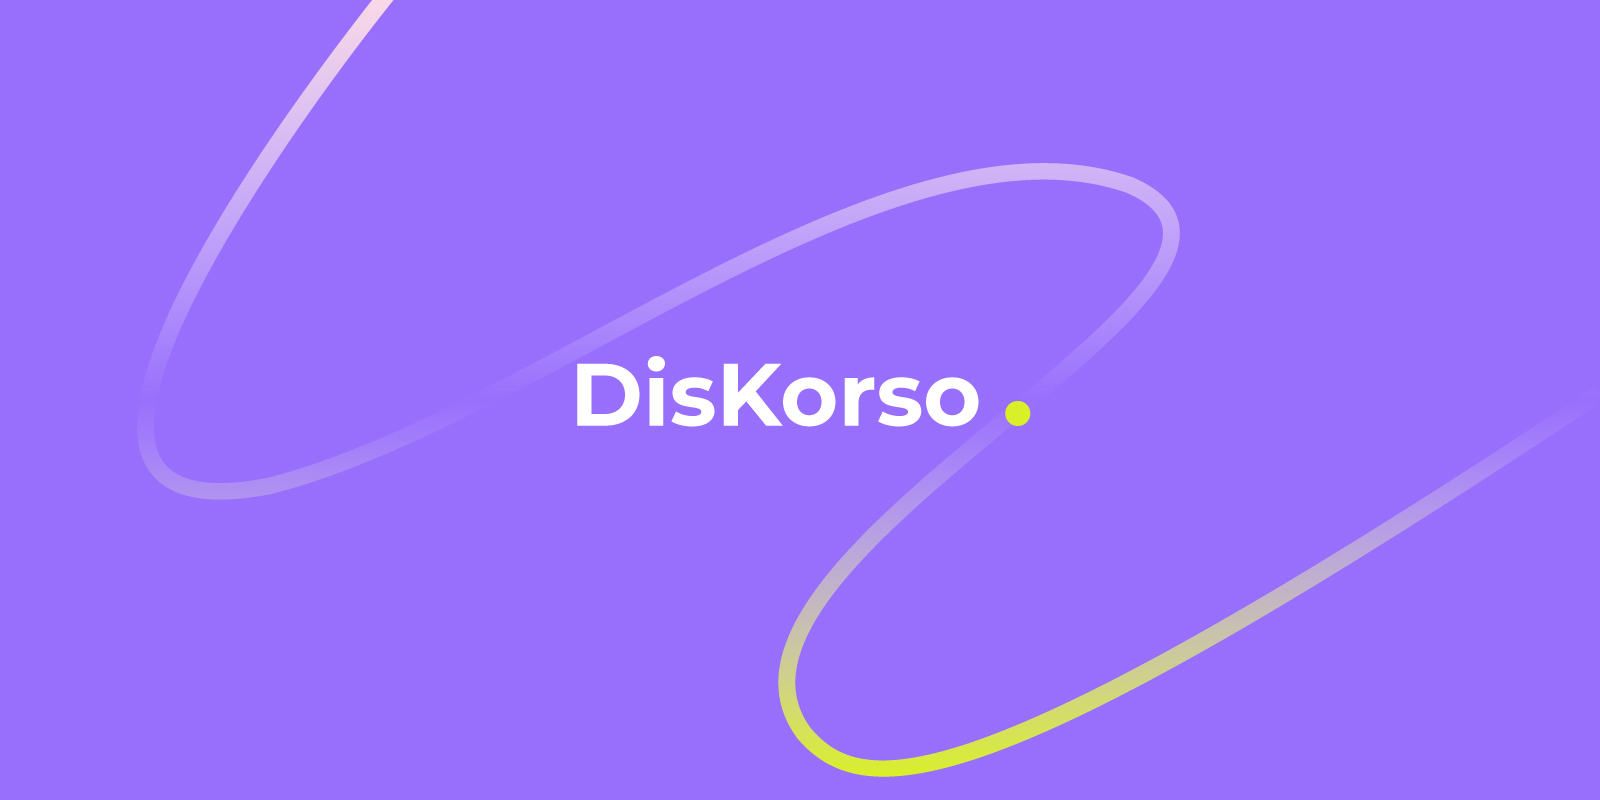
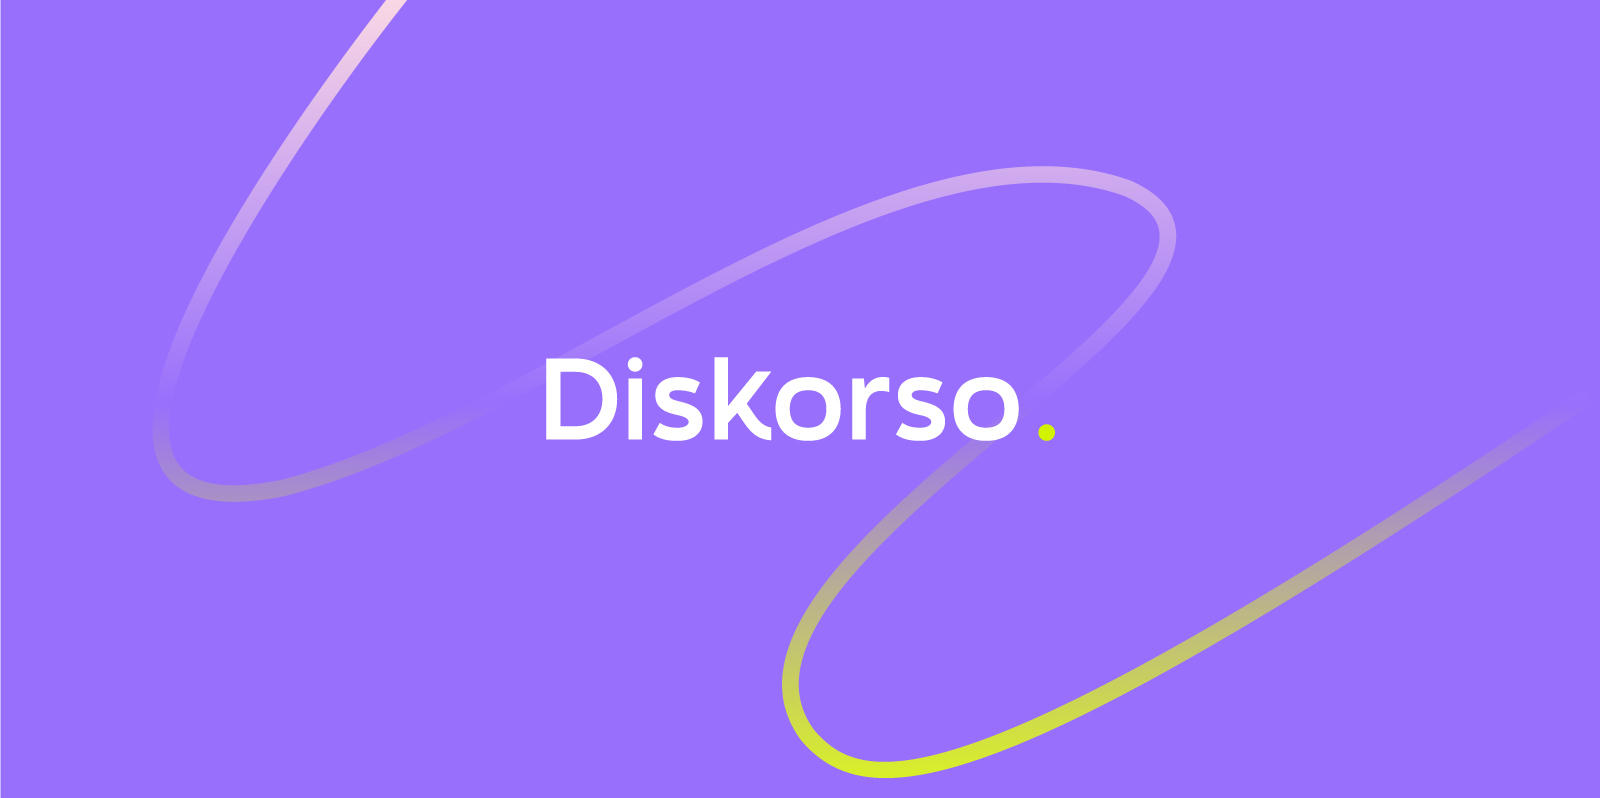
amelioration design et UX

diff --git a/components/Connected/NavBar.vue b/components/Connected/NavBar.vue
@@ -71,20 +71,23 @@ export default {
           : 'bg-white z-10 border-b-1 border-slate-300'
       "
     >
-      <div class="container mx-auto py-5 relative">
+      <div
+        class="container mx-auto relative"
+        :class="$route.path.indexOf('dashboard') === -1 ? 'py-10' : 'py-5'"
+      >
         <nav role="navigation" class="flex items-center mx-5">
-          <div class="w-4/12">
-            <div class="logo">
+          <div class="w-1/2">
+            <div class="logo w-[130px]">
               <NuxtLink to="/">
                 <img
-                  src="@/assets/images/logos/diskorso-logo-white.svg"
+                  src="@/assets/images/logos/diskorso-logo-white-2.svg"
                   alt="logo diskorso"
                 />
               </NuxtLink>
             </div>
           </div>
           <!-- <client-only> -->
-          <div class="w-8/12">
+          <div class="w-1/2">
             <ul
               v-if="windowWidth > 768"
               class="flex justify-end items-center gap-4"

diff --git a/components/NoConnected/NavBar.vue b/components/NoConnected/NavBar.vue
@@ -66,11 +66,11 @@ export default {
     <div class="main-nav w-full top-12 left-0 right-0 z-10 px-4">
       <div class="container mx-auto py-10 relative">
         <nav role="navigation" class="flex items-center -sm:mx-5">
-          <div class="w-1/2 md:w-2/12">
-            <div class="logo">
+          <div class="w-1/2">
+            <div class="logo w-[130px]">
               <NuxtLink to="/">
                 <img
-                  src="@/assets/images/logos/diskorso-logo-white.svg"
+                  src="@/assets/images/logos/diskorso-logo-white-2.svg"
                   alt="logo diskorso"
                 />
               </NuxtLink>
